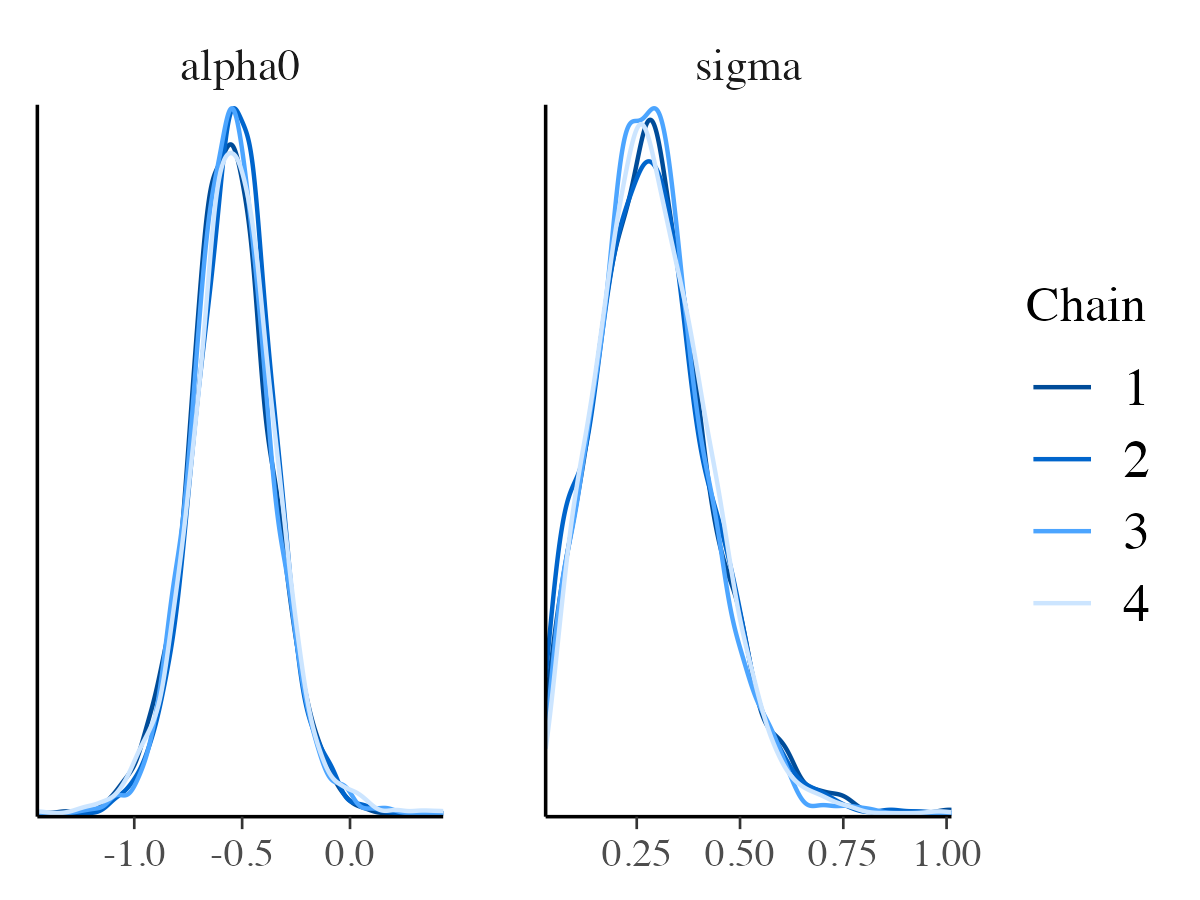
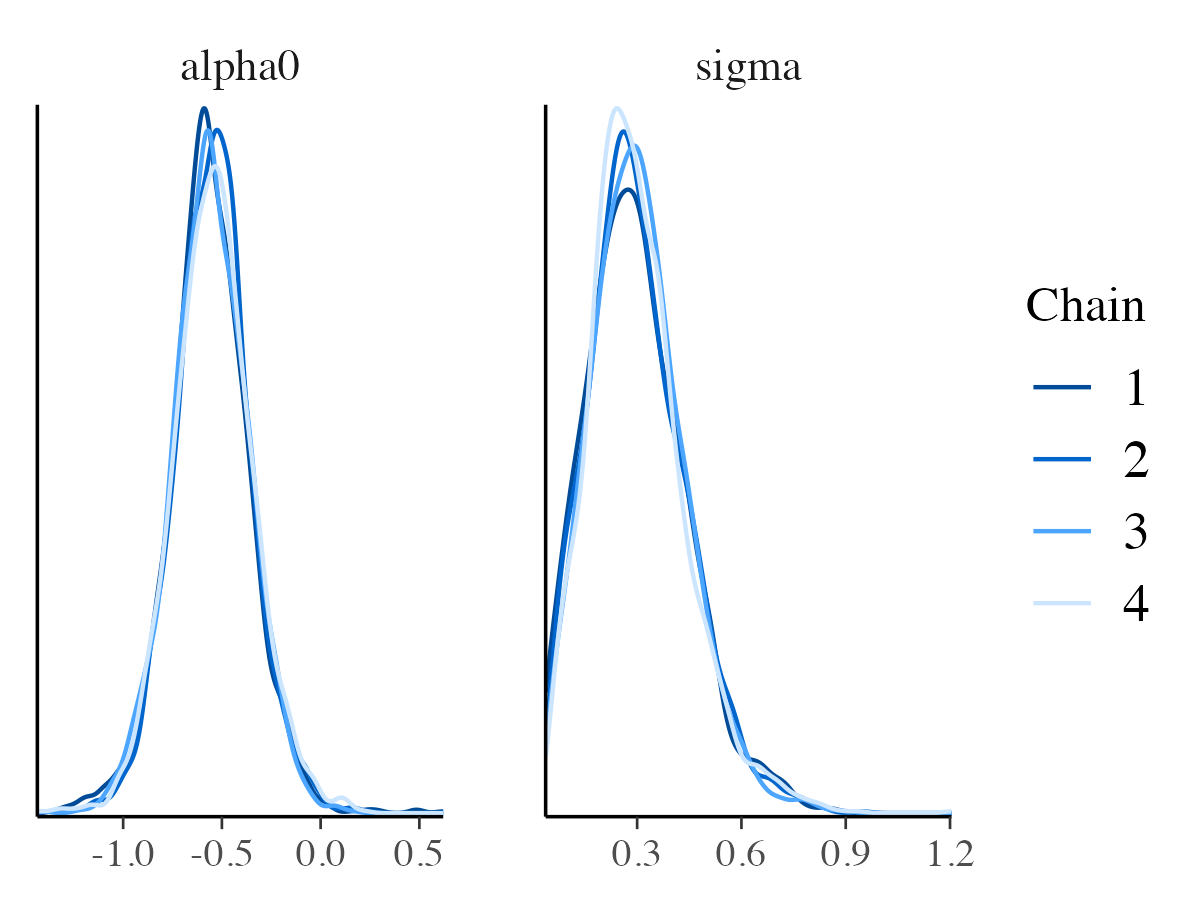
deploy: d0a1785ae10c607ab8a8d0228f68bc8fd1cad7e0

diff --git a/articles/other_ppl.html b/articles/other_ppl.html
@@ -126,7 +126,10 @@ and its standard error
 <math display="inline" xmlns="http://www.w3.org/1998/Math/MathML"><semantics><msub><mi>σ</mi><mi>j</mi></msub><annotation encoding="application/x-tex">\sigma_j</annotation></semantics></math>.<br>
 The data are as follows:</p>
 <div class="sourceCode" id="cb1"><pre class="downlit sourceCode r">
-<code class="sourceCode R"><span><span class="va">J</span> <span class="op">&lt;-</span> <span class="fl">8</span></span>
+<code class="sourceCode R"><span><span class="co"># Setting a seed</span></span>
+<span><span class="fu"><a href="https://rdrr.io/r/base/Random.html" class="external-link">set.seed</a></span><span class="op">(</span><span class="fl">42</span><span class="op">)</span></span>
+<span></span>
+<span><span class="va">J</span> <span class="op">&lt;-</span> <span class="fl">8</span></span>
 <span><span class="va">y</span> <span class="op">&lt;-</span> <span class="fu"><a href="https://rdrr.io/r/base/c.html" class="external-link">c</a></span><span class="op">(</span><span class="fl">28</span>, <span class="fl">8</span>, <span class="op">-</span><span class="fl">3</span>, <span class="fl">7</span>, <span class="op">-</span><span class="fl">1</span>, <span class="fl">1</span>, <span class="fl">18</span>, <span class="fl">12</span><span class="op">)</span>          <span class="co"># estimated treatment effects</span></span>
 <span><span class="va">sigma</span> <span class="op">&lt;-</span> <span class="fu"><a href="https://rdrr.io/r/base/c.html" class="external-link">c</a></span><span class="op">(</span><span class="fl">15</span>, <span class="fl">10</span>, <span class="fl">16</span>, <span class="fl">11</span>, <span class="fl">9</span>, <span class="fl">11</span>, <span class="fl">10</span>, <span class="fl">18</span><span class="op">)</span>   <span class="co"># standard errors</span></span>
 <span><span class="va">data_list</span> <span class="op">&lt;-</span> <span class="fu"><a href="https://rdrr.io/r/base/list.html" class="external-link">list</a></span><span class="op">(</span>J <span class="op">=</span> <span class="va">J</span>, y <span class="op">=</span> <span class="va">y</span>, sigma <span class="op">=</span> <span class="va">sigma</span><span class="op">)</span></span></code></pre></div>
@@ -142,14 +145,14 @@ hierarchical model.<br>
 <math display="inline" xmlns="http://www.w3.org/1998/Math/MathML"><semantics><mrow><msub><mi>θ</mi><mi>j</mi></msub><mo>=</mo><mi>μ</mi><mo>+</mo><mi>τ</mi><mo>⋅</mo><msub><mi>η</mi><mi>j</mi></msub><mo>,</mo><msub><mi>η</mi><mi>j</mi></msub><mo>∼</mo><mtext mathvariant="normal">Normal</mtext><mrow><mo stretchy="true" form="prefix">(</mo><mn>0</mn><mo>,</mo><mn>1</mn><mo stretchy="true" form="postfix">)</mo></mrow></mrow><annotation encoding="application/x-tex">\theta_j = \mu + \tau \cdot \eta_j, \eta_j \sim \mbox{Normal}(0,1)</annotation></semantics></math><br>
 - Weakly informative priors:
 <math display="inline" xmlns="http://www.w3.org/1998/Math/MathML"><semantics><mrow><mi>μ</mi><mo>∼</mo><mtext mathvariant="normal">Normal</mtext><mrow><mo stretchy="true" form="prefix">(</mo><mn>0</mn><mo>,</mo><mn>10</mn><mo stretchy="true" form="postfix">)</mo></mrow></mrow><annotation encoding="application/x-tex">\mu \sim \mbox{Normal}(0, 10)</annotation></semantics></math>,
-<math display="inline" xmlns="http://www.w3.org/1998/Math/MathML"><semantics><mrow><mi>τ</mi><mo>∼</mo><mtext mathvariant="normal">Uniform</mtext><mrow><mo stretchy="true" form="prefix">(</mo><mn>0</mn><mo>,</mo><mn>10</mn><mo stretchy="true" form="postfix">)</mo></mrow></mrow><annotation encoding="application/x-tex">\tau \sim \mbox{Uniform}(0, 10)</annotation></semantics></math></p>
+<math display="inline" xmlns="http://www.w3.org/1998/Math/MathML"><semantics><mrow><mi>τ</mi><mo>∼</mo><mtext mathvariant="normal">Uniform</mtext><mrow><mo stretchy="true" form="prefix">(</mo><mn>0</mn><mo>,</mo><mn>25</mn><mo stretchy="true" form="postfix">)</mo></mrow></mrow><annotation encoding="application/x-tex">\tau \sim \mbox{Uniform}(0, 25)</annotation></semantics></math></p>
 <p>Summarising the model setup we have:
-<math display="block" xmlns="http://www.w3.org/1998/Math/MathML"><semantics><mtable><mtr><mtd columnalign="right" style="text-align: right"><msub><mi>y</mi><mi>j</mi></msub><mo>∣</mo><msub><mi>θ</mi><mi>j</mi></msub></mtd><mtd columnalign="left" style="text-align: left"><mo>∼</mo><mtext mathvariant="normal">Normal</mtext><mrow><mo stretchy="true" form="prefix">(</mo><msub><mi>θ</mi><mi>j</mi></msub><mo>,</mo><msubsup><mi>σ</mi><mi>j</mi><mn>2</mn></msubsup><mo stretchy="true" form="postfix">)</mo></mrow><mo>,</mo><mspace width="1.0em"></mspace><mi>j</mi><mo>=</mo><mn>1</mn><mo>,</mo><mi>…</mi><mo>,</mo><mn>8</mn></mtd></mtr><mtr><mtd columnalign="right" style="text-align: right"><msub><mi>θ</mi><mi>j</mi></msub></mtd><mtd columnalign="left" style="text-align: left"><mo>=</mo><mi>μ</mi><mo>+</mo><mi>τ</mi><msub><mi>η</mi><mi>j</mi></msub><mo>,</mo><mspace width="1.0em"></mspace><msub><mi>η</mi><mi>j</mi></msub><mo>∼</mo><mtext mathvariant="normal">Normal</mtext><mrow><mo stretchy="true" form="prefix">(</mo><mn>0</mn><mo>,</mo><mn>1</mn><mo stretchy="true" form="postfix">)</mo></mrow></mtd></mtr><mtr><mtd columnalign="right" style="text-align: right"><mi>μ</mi></mtd><mtd columnalign="left" style="text-align: left"><mo>∼</mo><mtext mathvariant="normal">Normal</mtext><mrow><mo stretchy="true" form="prefix">(</mo><mn>0</mn><mo>,</mo><mn>10</mn><mo stretchy="true" form="postfix">)</mo></mrow></mtd></mtr><mtr><mtd columnalign="right" style="text-align: right"><mi>τ</mi></mtd><mtd columnalign="left" style="text-align: left"><mo>∼</mo><mtext mathvariant="normal">Uniform</mtext><mrow><mo stretchy="true" form="prefix">(</mo><mn>0</mn><mo>,</mo><mn>10</mn><mo stretchy="true" form="postfix">)</mo></mrow></mtd></mtr></mtable><annotation encoding="application/x-tex">
+<math display="block" xmlns="http://www.w3.org/1998/Math/MathML"><semantics><mtable><mtr><mtd columnalign="right" style="text-align: right"><msub><mi>y</mi><mi>j</mi></msub><mo>∣</mo><msub><mi>θ</mi><mi>j</mi></msub></mtd><mtd columnalign="left" style="text-align: left"><mo>∼</mo><mtext mathvariant="normal">Normal</mtext><mrow><mo stretchy="true" form="prefix">(</mo><msub><mi>θ</mi><mi>j</mi></msub><mo>,</mo><msubsup><mi>σ</mi><mi>j</mi><mn>2</mn></msubsup><mo stretchy="true" form="postfix">)</mo></mrow><mo>,</mo><mspace width="1.0em"></mspace><mi>j</mi><mo>=</mo><mn>1</mn><mo>,</mo><mi>…</mi><mo>,</mo><mn>8</mn></mtd></mtr><mtr><mtd columnalign="right" style="text-align: right"><msub><mi>θ</mi><mi>j</mi></msub></mtd><mtd columnalign="left" style="text-align: left"><mo>=</mo><mi>μ</mi><mo>+</mo><mi>τ</mi><msub><mi>η</mi><mi>j</mi></msub><mo>,</mo><mspace width="1.0em"></mspace><msub><mi>η</mi><mi>j</mi></msub><mo>∼</mo><mtext mathvariant="normal">Normal</mtext><mrow><mo stretchy="true" form="prefix">(</mo><mn>0</mn><mo>,</mo><mn>1</mn><mo stretchy="true" form="postfix">)</mo></mrow></mtd></mtr><mtr><mtd columnalign="right" style="text-align: right"><mi>μ</mi></mtd><mtd columnalign="left" style="text-align: left"><mo>∼</mo><mtext mathvariant="normal">Normal</mtext><mrow><mo stretchy="true" form="prefix">(</mo><mn>0</mn><mo>,</mo><mn>10</mn><mo stretchy="true" form="postfix">)</mo></mrow></mtd></mtr><mtr><mtd columnalign="right" style="text-align: right"><mi>τ</mi></mtd><mtd columnalign="left" style="text-align: left"><mo>∼</mo><mtext mathvariant="normal">Uniform</mtext><mrow><mo stretchy="true" form="prefix">(</mo><mn>0</mn><mo>,</mo><mn>25</mn><mo stretchy="true" form="postfix">)</mo></mrow></mtd></mtr></mtable><annotation encoding="application/x-tex">
 \begin{aligned}
 y_j \mid \theta_j &amp;\sim \mbox{Normal}(\theta_j, \sigma_j^2), \quad j = 1, \dots, 8 \\
 \theta_j &amp;= \mu + \tau \eta_j, \quad \eta_j \sim \mbox{Normal}(0,1) \\
 \mu &amp;\sim \mbox{Normal}(0, 10) \\
-\tau &amp;\sim \mbox{Uniform}(0, 10)
+\tau &amp;\sim \mbox{Uniform}(0, 25)
 \end{aligned}
 </annotation></semantics></math></p>
 <p>Now we describe how the hierarchical Eight Schools model can be
@@ -233,7 +236,7 @@ the it the example, can be seen from the code:</p>
 <span>  <span class="op">}</span></span>
 <span>  </span>
 <span>  <span class="va">mu</span> <span class="op">~</span> <span class="fu"><a href="https://rdrr.io/r/stats/Normal.html" class="external-link">dnorm</a></span><span class="op">(</span><span class="fl">0</span>, <span class="fl">10</span><span class="op">)</span></span>
-<span>  <span class="va">tau</span> <span class="op">~</span> <span class="fu"><a href="https://rdrr.io/r/stats/Uniform.html" class="external-link">dunif</a></span><span class="op">(</span><span class="fl">0</span>, <span class="fl">10</span><span class="op">)</span>  </span>
+<span>  <span class="va">tau</span> <span class="op">~</span> <span class="fu"><a href="https://rdrr.io/r/stats/Uniform.html" class="external-link">dunif</a></span><span class="op">(</span><span class="fl">0</span>, <span class="fl">25</span><span class="op">)</span>  </span>
 <span><span class="op">}</span><span class="op">)</span></span>
 <span></span>
 <span><span class="co"># Constants</span></span>
@@ -271,6 +274,34 @@ the it the example, can be seen from the code:</p>
 <p>JAGS uses BUGS-style syntax to define hierarchical Bayesian models.
 Therefore, it use can be defined below:</p>
 <div class="sourceCode" id="cb6"><pre class="downlit sourceCode r">
+<code class="sourceCode R"><span><span class="co"># library(R2jags)  # or rjags</span></span>
+<span></span>
+<span><span class="va">jags_model_string</span> <span class="op">&lt;-</span> <span class="st">"</span></span>
+<span><span class="st">model {</span></span>
+<span><span class="st">  for (j in 1:J) {</span></span>
+<span><span class="st">    y[j] ~ dnorm(theta[j], pow(sigma[j], -2))</span></span>
+<span><span class="st">    theta[j] &lt;- mu + tau * eta[j]</span></span>
+<span><span class="st">    eta[j] ~ dnorm(0, 1)</span></span>
+<span><span class="st">  }</span></span>
+<span><span class="st"></span></span>
+<span><span class="st">  mu ~ dnorm(0, 0.01)       # precision = 1/variance</span></span>
+<span><span class="st">  tau ~ dunif(0, 25)  </span></span>
+<span><span class="st">}</span></span>
+<span><span class="st">"</span></span>
+<span></span>
+<span><span class="va">params</span> <span class="op">&lt;-</span> <span class="fu"><a href="https://rdrr.io/r/base/c.html" class="external-link">c</a></span><span class="op">(</span><span class="st">"mu"</span>,<span class="st">"tau"</span><span class="op">)</span></span>
+<span></span>
+<span><span class="co"># Fitting the jags model</span></span>
+<span><span class="va">fit_jags</span> <span class="op">&lt;-</span> <span class="fu">jags</span><span class="op">(</span></span>
+<span>  data <span class="op">=</span> <span class="va">data_list</span>,</span>
+<span>  parameters.to.save <span class="op">=</span> <span class="va">params</span>,</span>
+<span>  model.file <span class="op">=</span> <span class="fu"><a href="https://rdrr.io/r/base/textconnections.html" class="external-link">textConnection</a></span><span class="op">(</span><span class="va">jags_model_string</span><span class="op">)</span>,</span>
+<span>  n.chains <span class="op">=</span> <span class="fl">4</span>,</span>
+<span>  n.iter <span class="op">=</span> <span class="fl">2000</span>,</span>
+<span>  n.burnin <span class="op">=</span> <span class="fl">500</span>,</span>
+<span>  n.thin <span class="op">=</span> <span class="fl">1</span></span>
+<span><span class="op">)</span></span></code></pre></div>
+<div class="sourceCode" id="cb7"><pre class="downlit sourceCode r">
 <code class="sourceCode R"><span><span class="co"># Plotting the results</span></span>
 <span><span class="fu">bayesplot</span><span class="fu">::</span><span class="fu"><a href="https://mc-stan.org/bayesplot/reference/MCMC-intervals.html" class="external-link">mcmc_areas</a></span><span class="op">(</span><span class="va">fit_jags</span><span class="op">$</span><span class="va">BUGSoutput</span><span class="op">$</span><span class="va">sims.array</span><span class="op">[</span>,,<span class="fu"><a href="https://rdrr.io/r/base/c.html" class="external-link">c</a></span><span class="op">(</span><span class="st">"mu"</span>,<span class="st">"tau"</span><span class="op">)</span><span class="op">]</span><span class="op">)</span></span>
 <span><span class="co"># Omitting the plot for brevity</span></span></code></pre></div>
@@ -283,7 +314,7 @@ Started</a> page we can define the <code>rjuliabugs</code> model also
 using the BUGS-syntax style. Being more precise, it would be the same
 code as the <code>JAGS</code> subsection. The following steps may
 differ, by the example below</p>
-<div class="sourceCode" id="cb7"><pre class="downlit sourceCode r">
+<div class="sourceCode" id="cb8"><pre class="downlit sourceCode r">
 <code class="sourceCode R"><span><span class="kw"><a href="https://rdrr.io/r/base/library.html" class="external-link">library</a></span><span class="op">(</span><span class="va"><a href="https://mateusmaiads.github.io/rjuliabugs/">rjuliabugs</a></span><span class="op">)</span></span>
 <span></span>
 <span><span class="va">rjuliabugs_model_string</span> <span class="op">&lt;-</span> <span class="st">"</span></span>
@@ -295,7 +326,7 @@ differ, by the example below</p>
 <span><span class="st">  }</span></span>
 <span><span class="st"></span></span>
 <span><span class="st">  mu ~ dnorm(0, 0.01)       </span></span>
-<span><span class="st">  tau ~ dunif(0, 10)  </span></span>
+<span><span class="st">  tau ~ dunif(0, 25)  </span></span>
 <span><span class="st">}</span></span>
 <span><span class="st">"</span></span>
 <span></span>
@@ -315,7 +346,7 @@ differ, by the example below</p>
 <span></span>
 <span><span class="co"># Extract posterior samples</span></span>
 <span><span class="va">rjuliabugs_post_samples</span> <span class="op">&lt;-</span> <span class="fu">rjuliabugs</span><span class="fu">::</span><span class="fu"><a href="../reference/extract.html">extract</a></span><span class="op">(</span><span class="va">fit_juliabugs</span><span class="op">)</span></span></code></pre></div>
-<div class="sourceCode" id="cb8"><pre class="downlit sourceCode r">
+<div class="sourceCode" id="cb9"><pre class="downlit sourceCode r">
 <code class="sourceCode R"><span><span class="co"># Visualize mu and tau</span></span>
 <span><span class="kw"><a href="https://rdrr.io/r/base/library.html" class="external-link">library</a></span><span class="op">(</span><span class="va"><a href="https://mc-stan.org/bayesplot/" class="external-link">bayesplot</a></span><span class="op">)</span></span>
 <span><span class="fu"><a href="https://mc-stan.org/bayesplot/reference/MCMC-intervals.html" class="external-link">mcmc_areas</a></span><span class="op">(</span><span class="va">rjuliabugs_post_samples</span>, pars <span class="op">=</span> <span class="fu"><a href="https://rdrr.io/r/base/c.html" class="external-link">c</a></span><span class="op">(</span><span class="st">"mu"</span>, <span class="st">"tau"</span><span class="op">)</span><span class="op">)</span></span></code></pre></div>

diff --git a/articles/rjuliabugs.html b/articles/rjuliabugs.html
@@ -262,16 +262,16 @@ through <code>summary</code> function</p>
 <span><span class="co">#&gt; Summary Statistics:</span></span>
 <span><span class="co">#&gt; </span></span>
 <span><span class="co">#&gt;  parameters     mean     std     mcse ess_bulk ess_tail  rhat ess_per_sec</span></span>
-<span><span class="co">#&gt;         tau 39.74610 86.8906 4.374627    480.6    485.8 1.012          NA</span></span>
-<span><span class="co">#&gt;     alpha12 -0.82833  0.4350 0.007351   3499.4   4179.8 1.001          NA</span></span>
-<span><span class="co">#&gt;      alpha2  1.34649  0.2712 0.004810   3173.0   3938.8 1.002          NA</span></span>
-<span><span class="co">#&gt;      alpha1  0.08310  0.3196 0.005326   3695.8   3838.4 1.001          NA</span></span>
-<span><span class="co">#&gt;      alpha0 -0.54791  0.1970 0.003322   3485.5   3682.3 1.002          NA</span></span>
-<span><span class="co">#&gt;        b[1] -0.19529  0.2602 0.005583   2267.2   3941.6 1.002          NA</span></span>
-<span><span class="co">#&gt;        b[2]  0.00735  0.2218 0.002934   5996.1   4034.4 1.002          NA</span></span>
-<span><span class="co">#&gt;        b[3] -0.20473  0.2343 0.004918   2281.3   3899.1 1.003          NA</span></span>
-<span><span class="co">#&gt;        b[4]  0.26799  0.2563 0.006439   1591.9   4231.1 1.003          NA</span></span>
-<span><span class="co">#&gt;        b[5]  0.11046  0.2402 0.003546   4923.3   3688.3 1.002          NA</span></span>
+<span><span class="co">#&gt;         tau 38.19499 87.7708 5.207790    383.2    354.2 1.011          NA</span></span>
+<span><span class="co">#&gt;     alpha12 -0.83813  0.4283 0.007314   3413.9   4329.9 1.001          NA</span></span>
+<span><span class="co">#&gt;      alpha2  1.35857  0.2695 0.004753   3205.4   3827.6 1.001          NA</span></span>
+<span><span class="co">#&gt;      alpha1  0.08687  0.3147 0.005616   3158.4   3895.4 1.001          NA</span></span>
+<span><span class="co">#&gt;      alpha0 -0.55555  0.1928 0.003253   3481.0   4182.8 1.002          NA</span></span>
+<span><span class="co">#&gt;        b[1] -0.19515  0.2637 0.005728   2380.7   4131.8 1.002          NA</span></span>
+<span><span class="co">#&gt;        b[2]  0.01300  0.2267 0.002888   6299.0   4672.9 1.005          NA</span></span>
+<span><span class="co">#&gt;        b[3] -0.19822  0.2310 0.004860   2415.3   4143.3 1.002          NA</span></span>
+<span><span class="co">#&gt;        b[4]  0.28028  0.2569 0.006624   1520.1   4234.5 1.004          NA</span></span>
+<span><span class="co">#&gt;        b[5]  0.11782  0.2392 0.003572   4679.1   4643.2 1.002          NA</span></span>
 <span><span class="co">#&gt;          ...</span></span>
 <span><span class="co">#&gt;   17 rows omitted</span></span></code></pre></div>
 <p>If we wish to obtain the summary statistics for each saved parameter,
@@ -382,7 +382,7 @@ package:</p>
 <span></span>
 <span><span class="co"># Example: effective sample size</span></span>
 <span><span class="fu">posterior</span><span class="fu">::</span><span class="fu"><a href="https://mc-stan.org/posterior/reference/ess_basic.html" class="external-link">ess_basic</a></span><span class="op">(</span><span class="va">posterior</span><span class="op">$</span><span class="va">params</span><span class="op">[</span>,,<span class="st">"alpha0"</span><span class="op">]</span><span class="op">)</span></span>
-<span><span class="co">#&gt; [1] 3517.728</span></span></code></pre></div>
+<span><span class="co">#&gt; [1] 3512.924</span></span></code></pre></div>
 </div>
 <div class="section level2">
 <h2 id="saving-and-loading-the-rjuliabugs-model">Saving and loading the <code>rjuliabugs</code> model<a class="anchor" aria-label="anchor" href="#saving-and-loading-the-rjuliabugs-model"></a>
